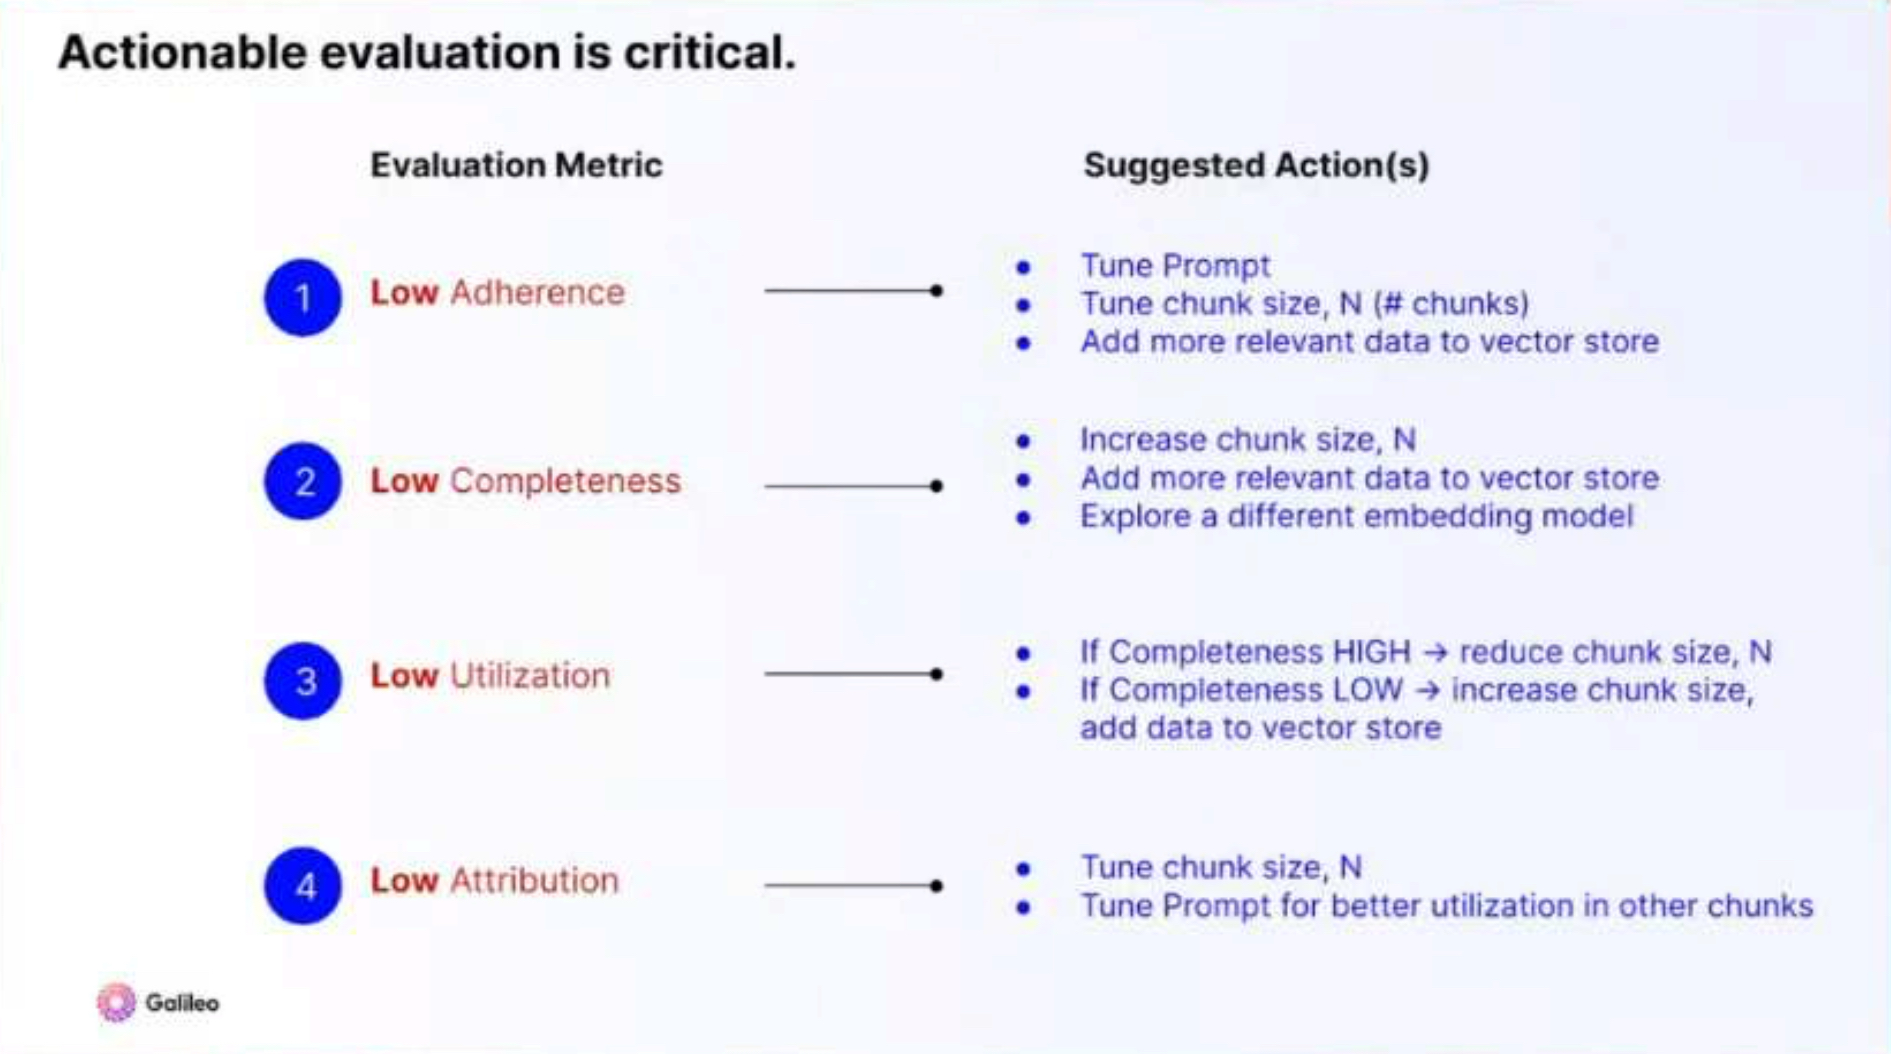
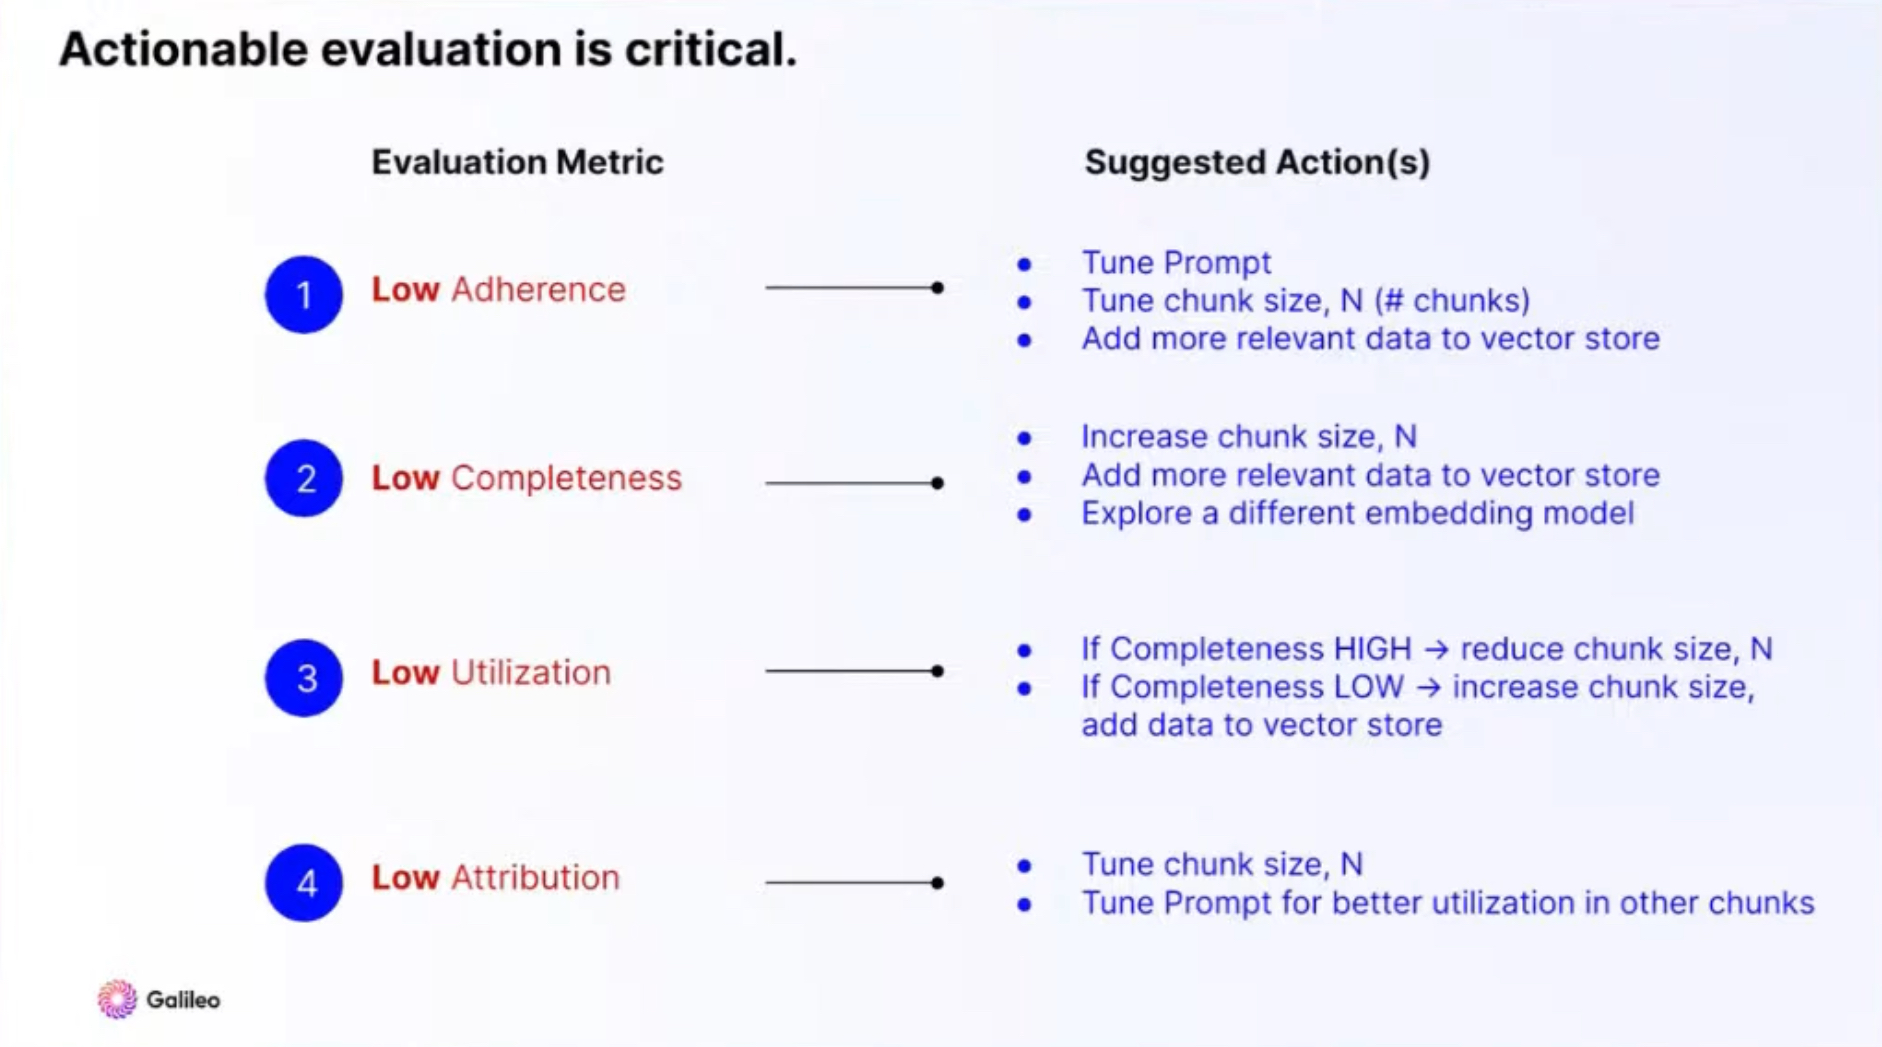
resolved link to image problem

diff --git a/_posts/2024-02-23-RAG-Roadbblocks-and-Evaluation-Strategies.md b/_posts/2024-02-23-RAG-Roadbblocks-and-Evaluation-Strategies.md
@@ -44,7 +44,7 @@ We aim for the input to be minimal and accurate, seeking dense information just 
 ## RAG evaluation
 How can we evaluate the performance and take actions to improve it?
 
-**Output Quality**:
+- **Output Quality**:
 
     - **Context Adherence**: To what extent does the output align with the syllabus? Objective is to avoid hallucination.
 
@@ -55,4 +55,4 @@ How can we evaluate the performance and take actions to improve it?
 
     - **Chunk Attribution**: Aim for a high number of relevant chunks used, ensuring the response includes all pertinent chunks.
 
-    ![Actionable Evaluation](/images/RAG/actionable_evaluaation.jpg)_Actionable Evaluation. Source: [Galileo](https://www.youtube.com/watch?v=njN_Wu8dLfE)_
+    ![Actionable Evaluation](/images/RAG/actionable_evaluation.jpg)_Actionable Evaluation. Source: [Galileo](https://www.youtube.com/watch?v=njN_Wu8dLfE)_
